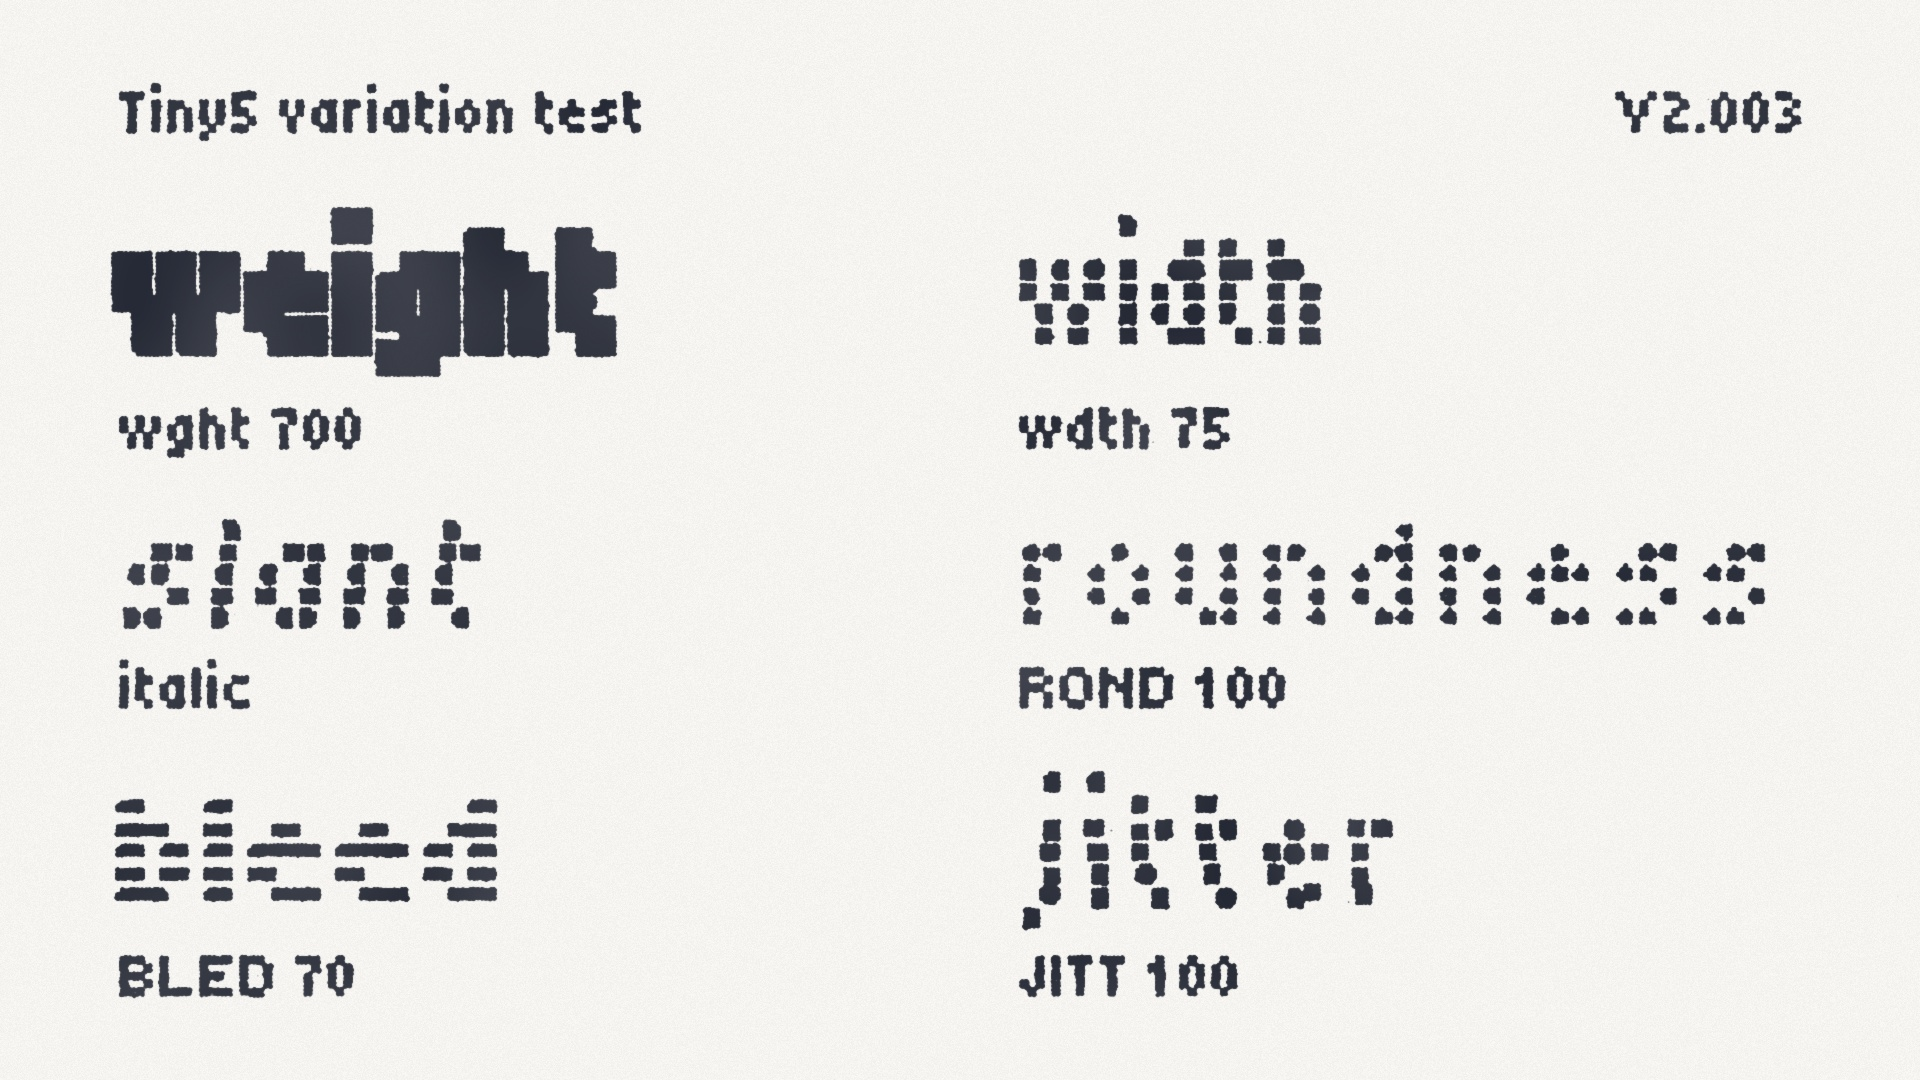
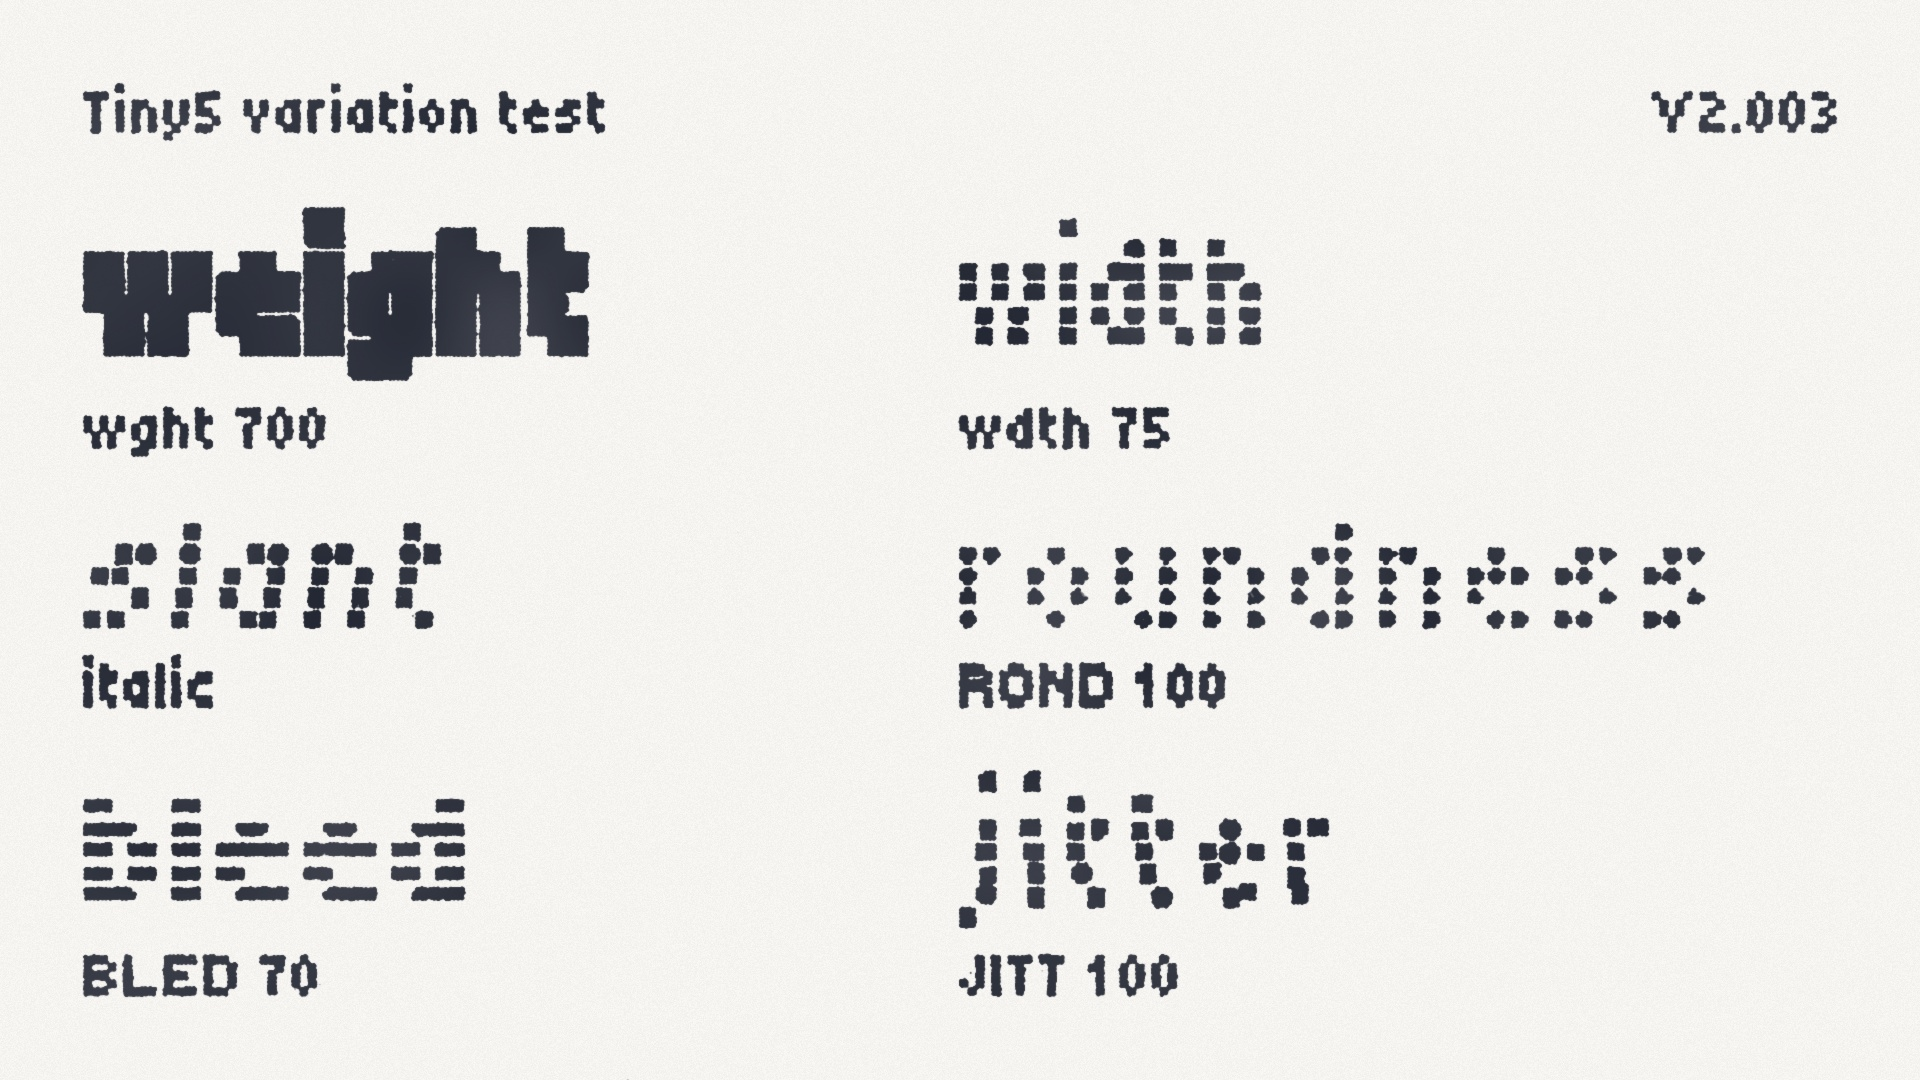
Specimen update

diff --git a/documentation/build-specimen.py b/documentation/build-specimen.py
@@ -853,10 +853,9 @@ INKJET_GAIN = (0.56, 0.70)      # Droplet radius range, in dots (dot gain > 0.5)
 INKJET_SATELLITES = 0.03        # Chance of a stray satellite drop per edge dot
 
 # The proof card: a running head over three rows of two blocks, each block
-# an axis name with its technical tag beneath
-PROOF_MARGIN = 120              # side margin, in image pixels
-PROOF_MARGIN_Y = 84             # head and foot margin
-PROOF_COLUMN = 900              # distance between the two columns
+# an axis name with its technical tag beneath. The card is trimmed to one
+# margin all round, and the blocks stand in two equal columns across it
+PROOF_MARGIN = 84               # margin on every side, in image pixels
 PROOF_WORD_SCALE = 22           # the axis name, in image pixels per font pixel
 PROOF_TAG_SCALE = 8             # its tag, and the running head
 PROOF_TAG_GAP = 30              # ink gap from an axis name down to its tag
@@ -940,31 +939,56 @@ def build_axes():
     the glyphs to their own heights, so blocks stepped by a fixed baseline
     pitch would leave visibly uneven gaps. Each tag instead clears the
     descenders of its own row, and the space left over spreads evenly.
+
+    Across the page it is set the same way. Bleed swells the ink past the
+    pen and slant and jitter lean and shift it, so lines placed by their
+    pens would hang off the column by a fraction of a font pixel: every
+    line is set against its own ink instead. That squares the running head
+    with the margin at both ends, ranges each tag under its axis name, and
+    leaves the two columns to divide the measure equally.
     """
     rng = random.Random(NOISE_SEED)
     mask = Image.new("L", CANVAS, 0)
     draw = ImageDraw.Draw(mask)
 
-    def put(xy, scale, string, anchor="ls", **variant):
+    def ink_box(scale, string, **variant):
+        """Return the box the string's ink covers, relative to its pen.
+
+        The axes carry the ink outside the glyph boxes: bleed spreads it past
+        every side, and slant and jitter lean and shift it. The text metrics
+        report the advance and the nominal line instead, so the ink is
+        measured by setting the string on its own and taking the box that
+        comes back.
+        """
         font = get_font(scale, **variant)
-        x = xy[0]
-        if anchor[0] == "r":
-            # Right-align on the ink, so the running head sits flush to the
-            # margin at both ends; the advance runs a pixel past the ink
-            x -= draw.textlength(string, font=font) - scale
-            anchor = "l" + anchor[1]
-        draw.text(xy=(x, xy[1]), text=string, fill=255, font=font, anchor=anchor)
+        pad = 2 * scale          # room for the ink that falls outside the pen
+        width = round(draw.textlength(string, font=font)) + 2 * pad
+        height = 2 * (font.size + pad)
+        proof = Image.new("L", (width, height), 0)
+        ImageDraw.Draw(proof).text(xy=(pad, height // 2), text=string, fill=255,
+                                   font=font, anchor="ls")
+        box = proof.getbbox()
+
+        return (box[0] - pad, box[1] - height // 2,
+                box[2] - pad, box[3] - height // 2)
+
+    def put(xy, scale, string, anchor="ls", **variant):
+        """Draw a string set against x by its ink rather than by its pen, so
+        that a column edge, and the running head, line up on what shows."""
+        box = ink_box(scale, string, **variant)
+        x = xy[0] - (box[2] if anchor[0] == "r" else box[0])
+        draw.text(xy=(x, xy[1]), text=string, fill=255,
+                  font=get_font(scale, **variant), anchor="l" + anchor[1])
 
     def ink(scale, strings):
         """Return how far the tallest of the strings inks above the baseline,
         and the deepest of them below it."""
-        boxes = [draw.textbbox((0, 0), string, font=get_font(scale, **variant),
-                               anchor="ls")
-                 for string, variant in strings]
+        boxes = [ink_box(scale, string, **variant) for string, variant in strings]
 
         return max(-box[1] for box in boxes), max(box[3] for box in boxes)
 
     left, right = PROOF_MARGIN, CANVAS[0] - PROOF_MARGIN
+    column = (right - left) // 2        # pitch of the two columns
     head = [("Tiny5 variation test", {}), (VERSION, {})]
     rows = [AXIS_ROWS[i:i + 2] for i in range(0, len(AXIS_ROWS), 2)]
 
@@ -977,17 +1001,17 @@ def build_axes():
         tag_above, tag_below = ink(PROOF_TAG_SCALE, [(tag, {}) for _, tag, _ in row])
         blocks.append((above, below + PROOF_TAG_GAP + tag_above, tag_below))
     filled = head_above + head_below + sum(sum(block) for block in blocks)
-    gap = (CANVAS[1] - 2 * PROOF_MARGIN_Y - filled) // len(rows)
+    gap = (CANVAS[1] - 2 * PROOF_MARGIN - filled) // len(rows)
 
-    y = PROOF_MARGIN_Y + head_above
+    y = PROOF_MARGIN + head_above
     put((left, y), PROOF_TAG_SCALE, "Tiny5 variation test")
     put((right, y), PROOF_TAG_SCALE, VERSION, anchor="rs")
     y += head_below
 
     for row, (above, tag_offset, tag_below) in zip(rows, blocks):
         y += gap + above
-        for column, (word, tag, variant) in enumerate(row):
-            x = left + column * PROOF_COLUMN
+        for index, (word, tag, variant) in enumerate(row):
+            x = left + index * column
             put((x, y), PROOF_WORD_SCALE, word, **variant)
             put((x, y + tag_offset), PROOF_TAG_SCALE, tag)
         y += tag_offset + tag_below
